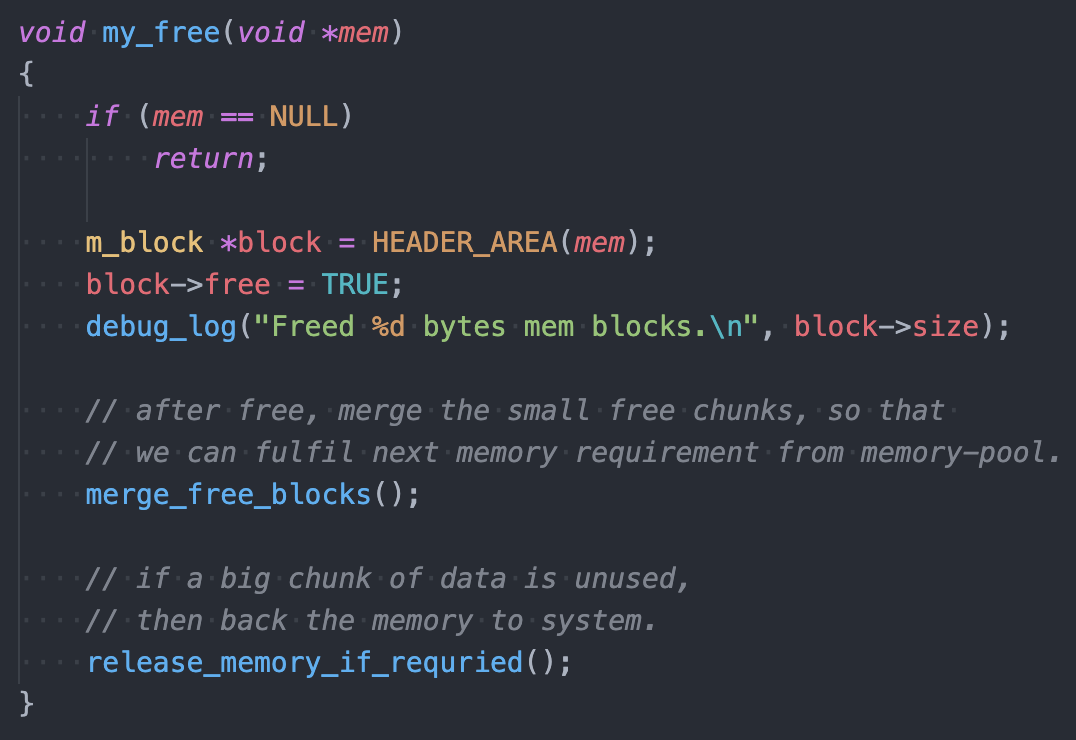
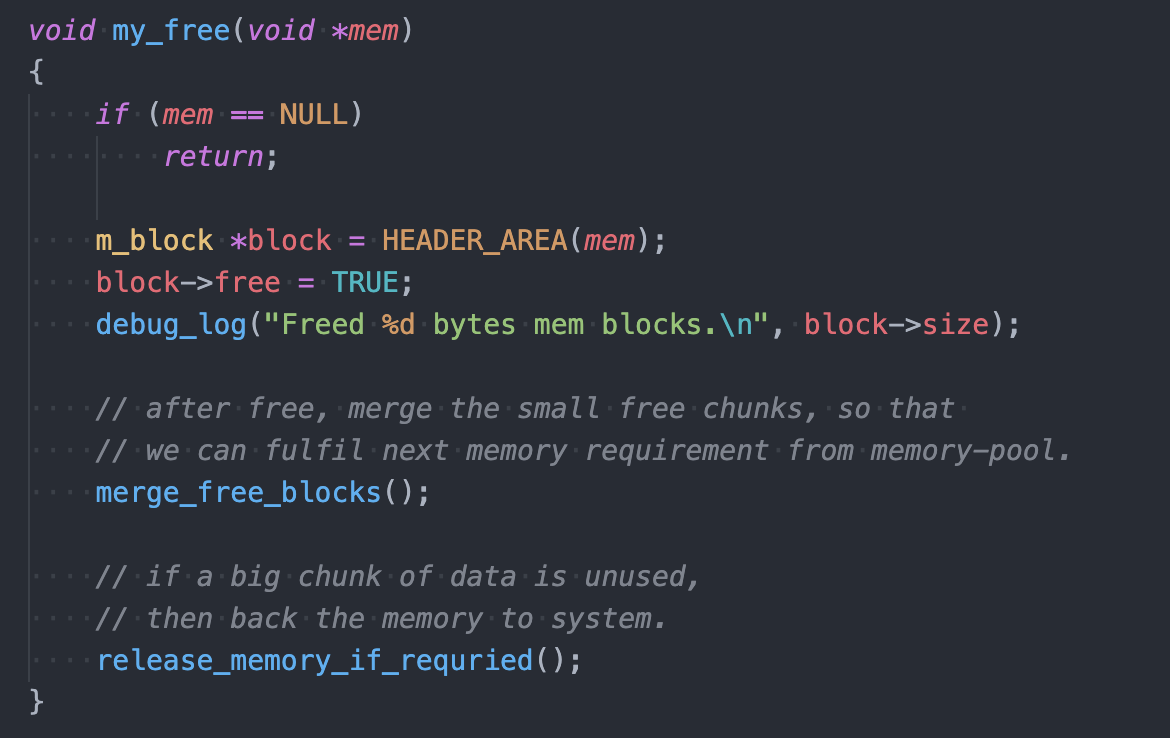
images updated

diff --git a/lib/my_malloc.c b/lib/my_malloc.c
@@ -213,6 +213,7 @@ void *my_malloc(size_t size)
     return WRITABLE_AREA(mem);
 }
 
+
 void my_free(void *mem)
 {
     if (mem == NULL)
@@ -230,6 +231,8 @@ void my_free(void *mem)
     // then back the memory to system.
     release_memory_if_requried();
 }
+
+
 
 
 

diff --git a/README.md b/README.md
@@ -30,12 +30,12 @@ Here I've tried to implement `malloc` and `free` using `brk`, `sbrk`.
 
 `my_malloc()` implementation using `brk` and `sbrk`.
 
-<img src="./img/malloc.png" height="450px">
+<img src="./img/malloc.png?v=2" height="450px">
 
 
 `my_free()` implementation using `brk` and `sbrk`.
 
-<img src="./img/free.png" height="350px">
+<img src="./img/free.png?v=2" height="350px">
 
 ### Reference:
 - The Linux Programming Interface by Michael Kerrisk
